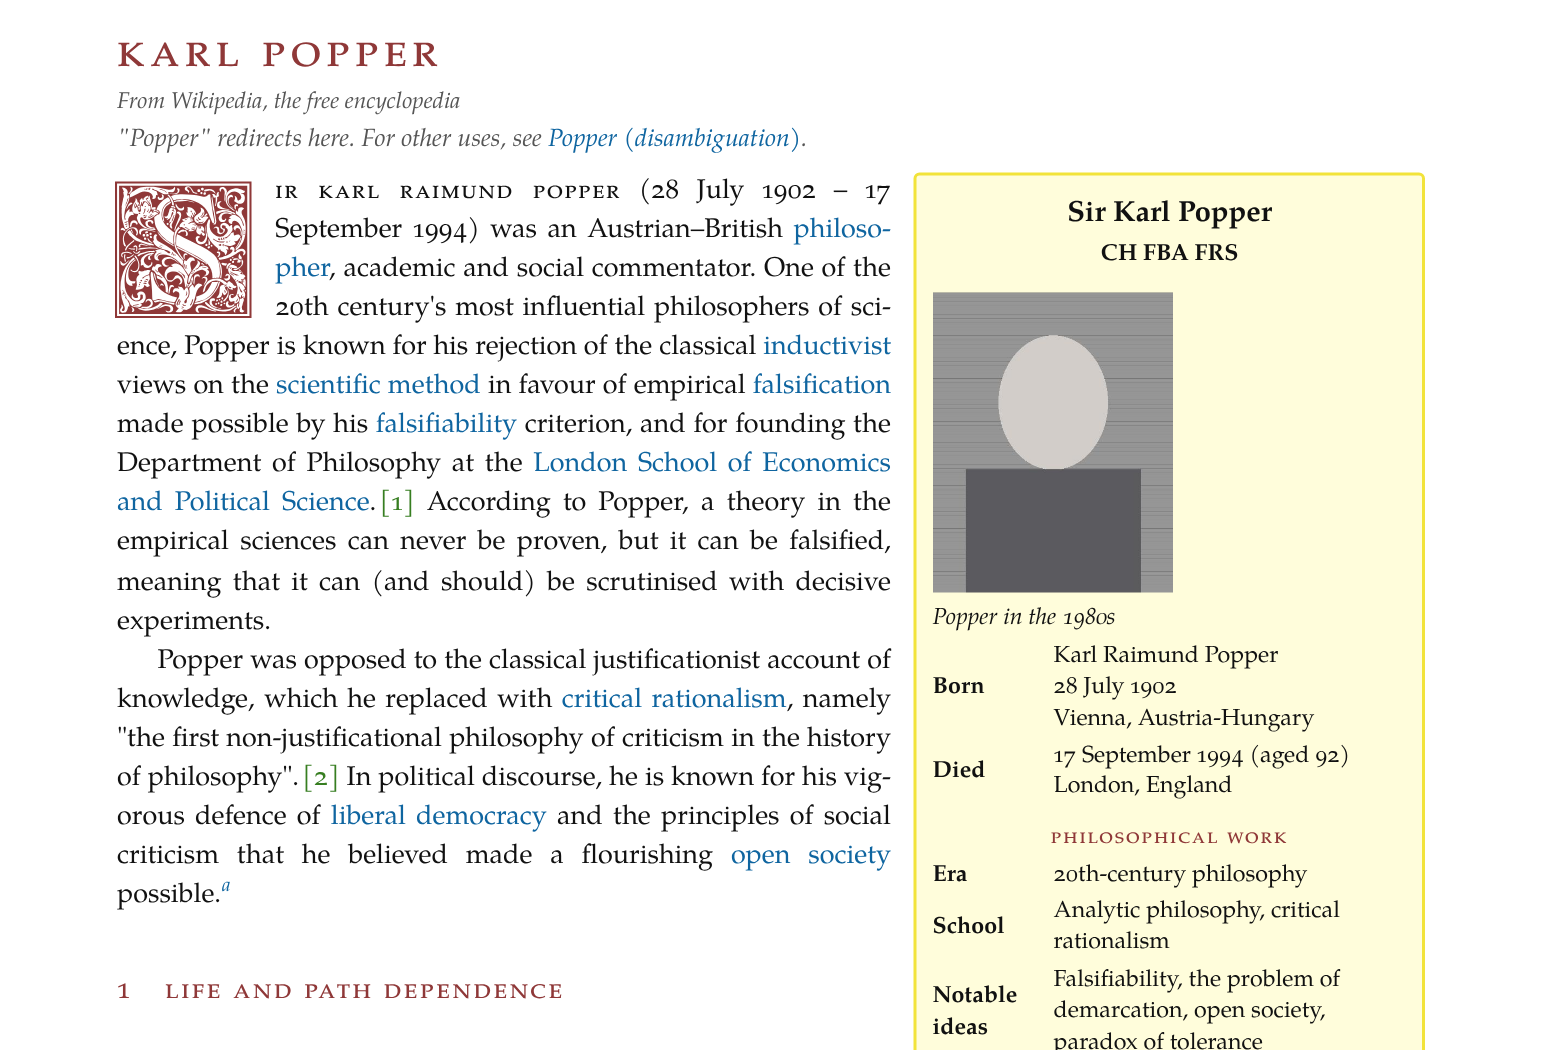
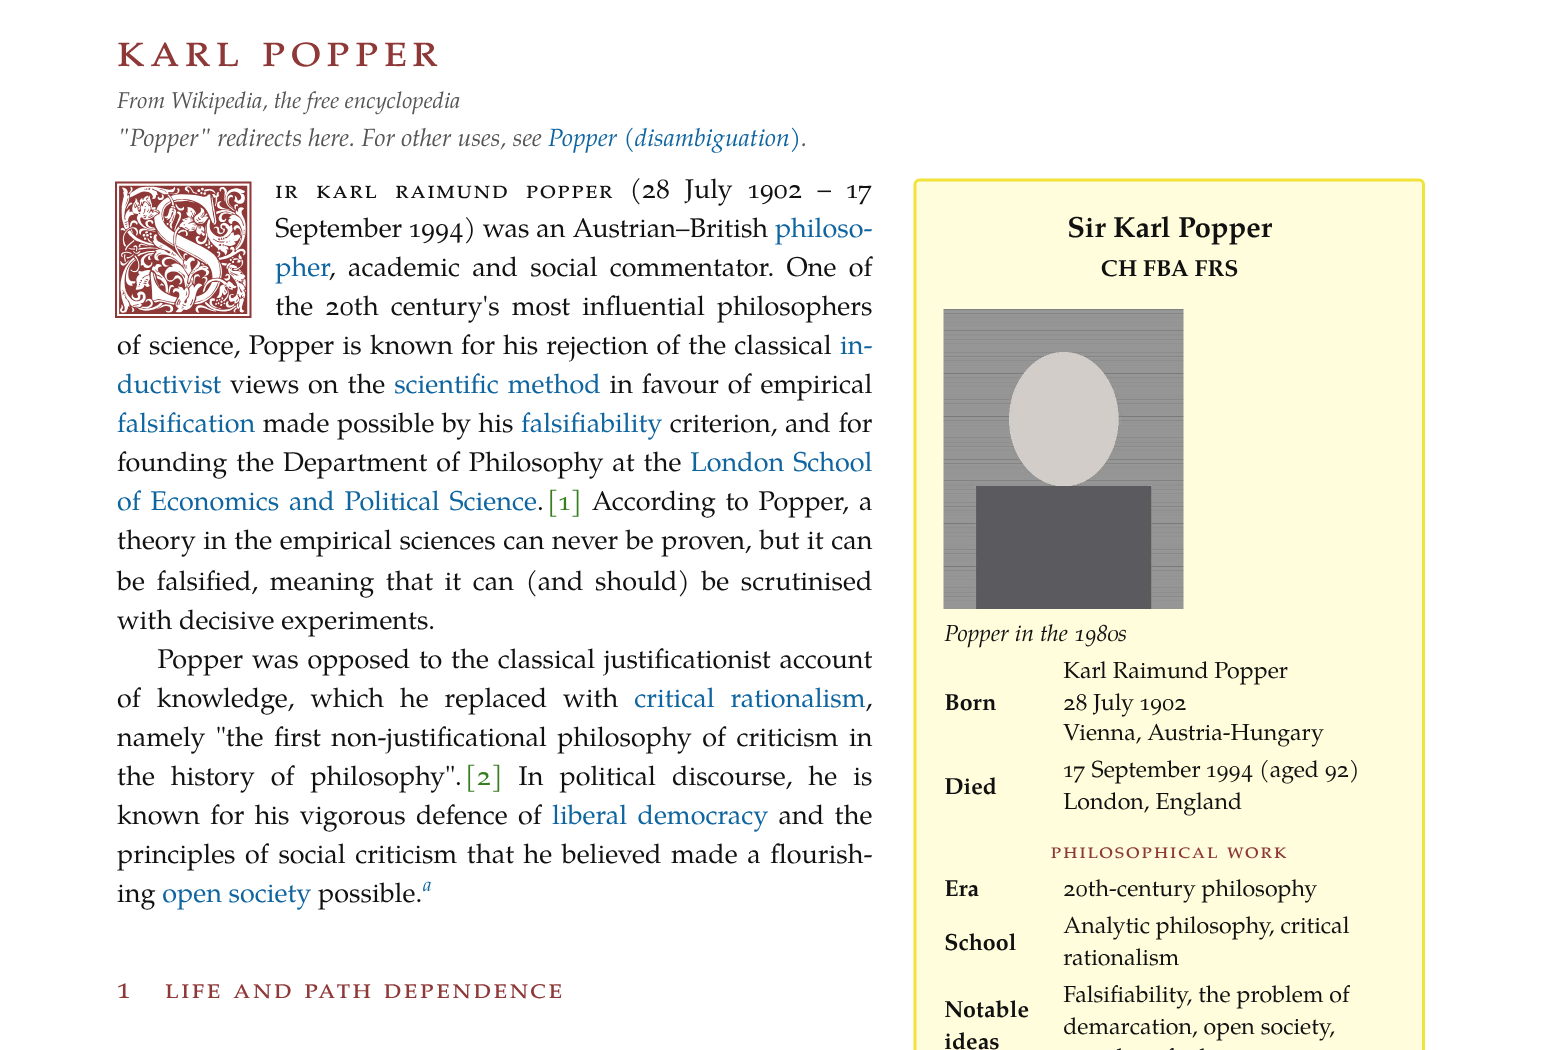
Give the yellow callouts more breathing room
More inner padding and a wider outer margin on infoboxes, sidebars, notices
and quote boxes.

Claude-Session: https://claude.ai/code/session_01YVYk5abgGjRjqovCHuAN4t

diff --git a/incerto.css b/incerto.css
@@ -295,7 +295,8 @@ html.incerto .mw-parser-output table.infobox,
 html.incerto .mw-parser-output table.sidebar {
   font-size: .86em;
   line-height: 1.35;
-  padding: .5em .6em;
+  padding: .9em 1.1em;
+  margin: .3em 0 1.4em 1.8em !important;
   border-collapse: separate;
   border-spacing: 0 .15em;
 }
@@ -323,9 +324,10 @@ html.incerto .mw-parser-output :is(table.infobox, table.sidebar) :is(.infobox-he
 }
 html.incerto .mw-parser-output table.infobox .infobox-label { font-weight: 700; padding-right: .6em; text-align: left; }
 html.incerto .mw-parser-output table.infobox .infobox-caption { font-style: italic; }
-html.incerto .mw-parser-output :is(.ambox, .ombox, .tmbox, .cmbox) { border-left-width: 2px !important; }
+html.incerto .mw-parser-output :is(.ambox, .ombox, .tmbox, .cmbox) { border-left-width: 2px !important; margin-top: .8em; margin-bottom: 1.2em; }
+html.incerto .mw-parser-output :is(.ambox, .ombox, .tmbox, .cmbox) :is(.mbox-text, .mbox-image) { padding: .7em 1em; }
 html.incerto .mw-parser-output :is(.ambox, .ombox, .tmbox, .cmbox) .mbox-text { font-style: italic; }
-html.incerto .mw-parser-output .quotebox { padding: .7em 1em !important; }
+html.incerto .mw-parser-output .quotebox { padding: .9em 1.2em !important; margin: .4em 0 1.2em 1.8em !important; }
 
 /* ---------- small things ---------- */
 html.incerto .mw-parser-output .hatnote {
